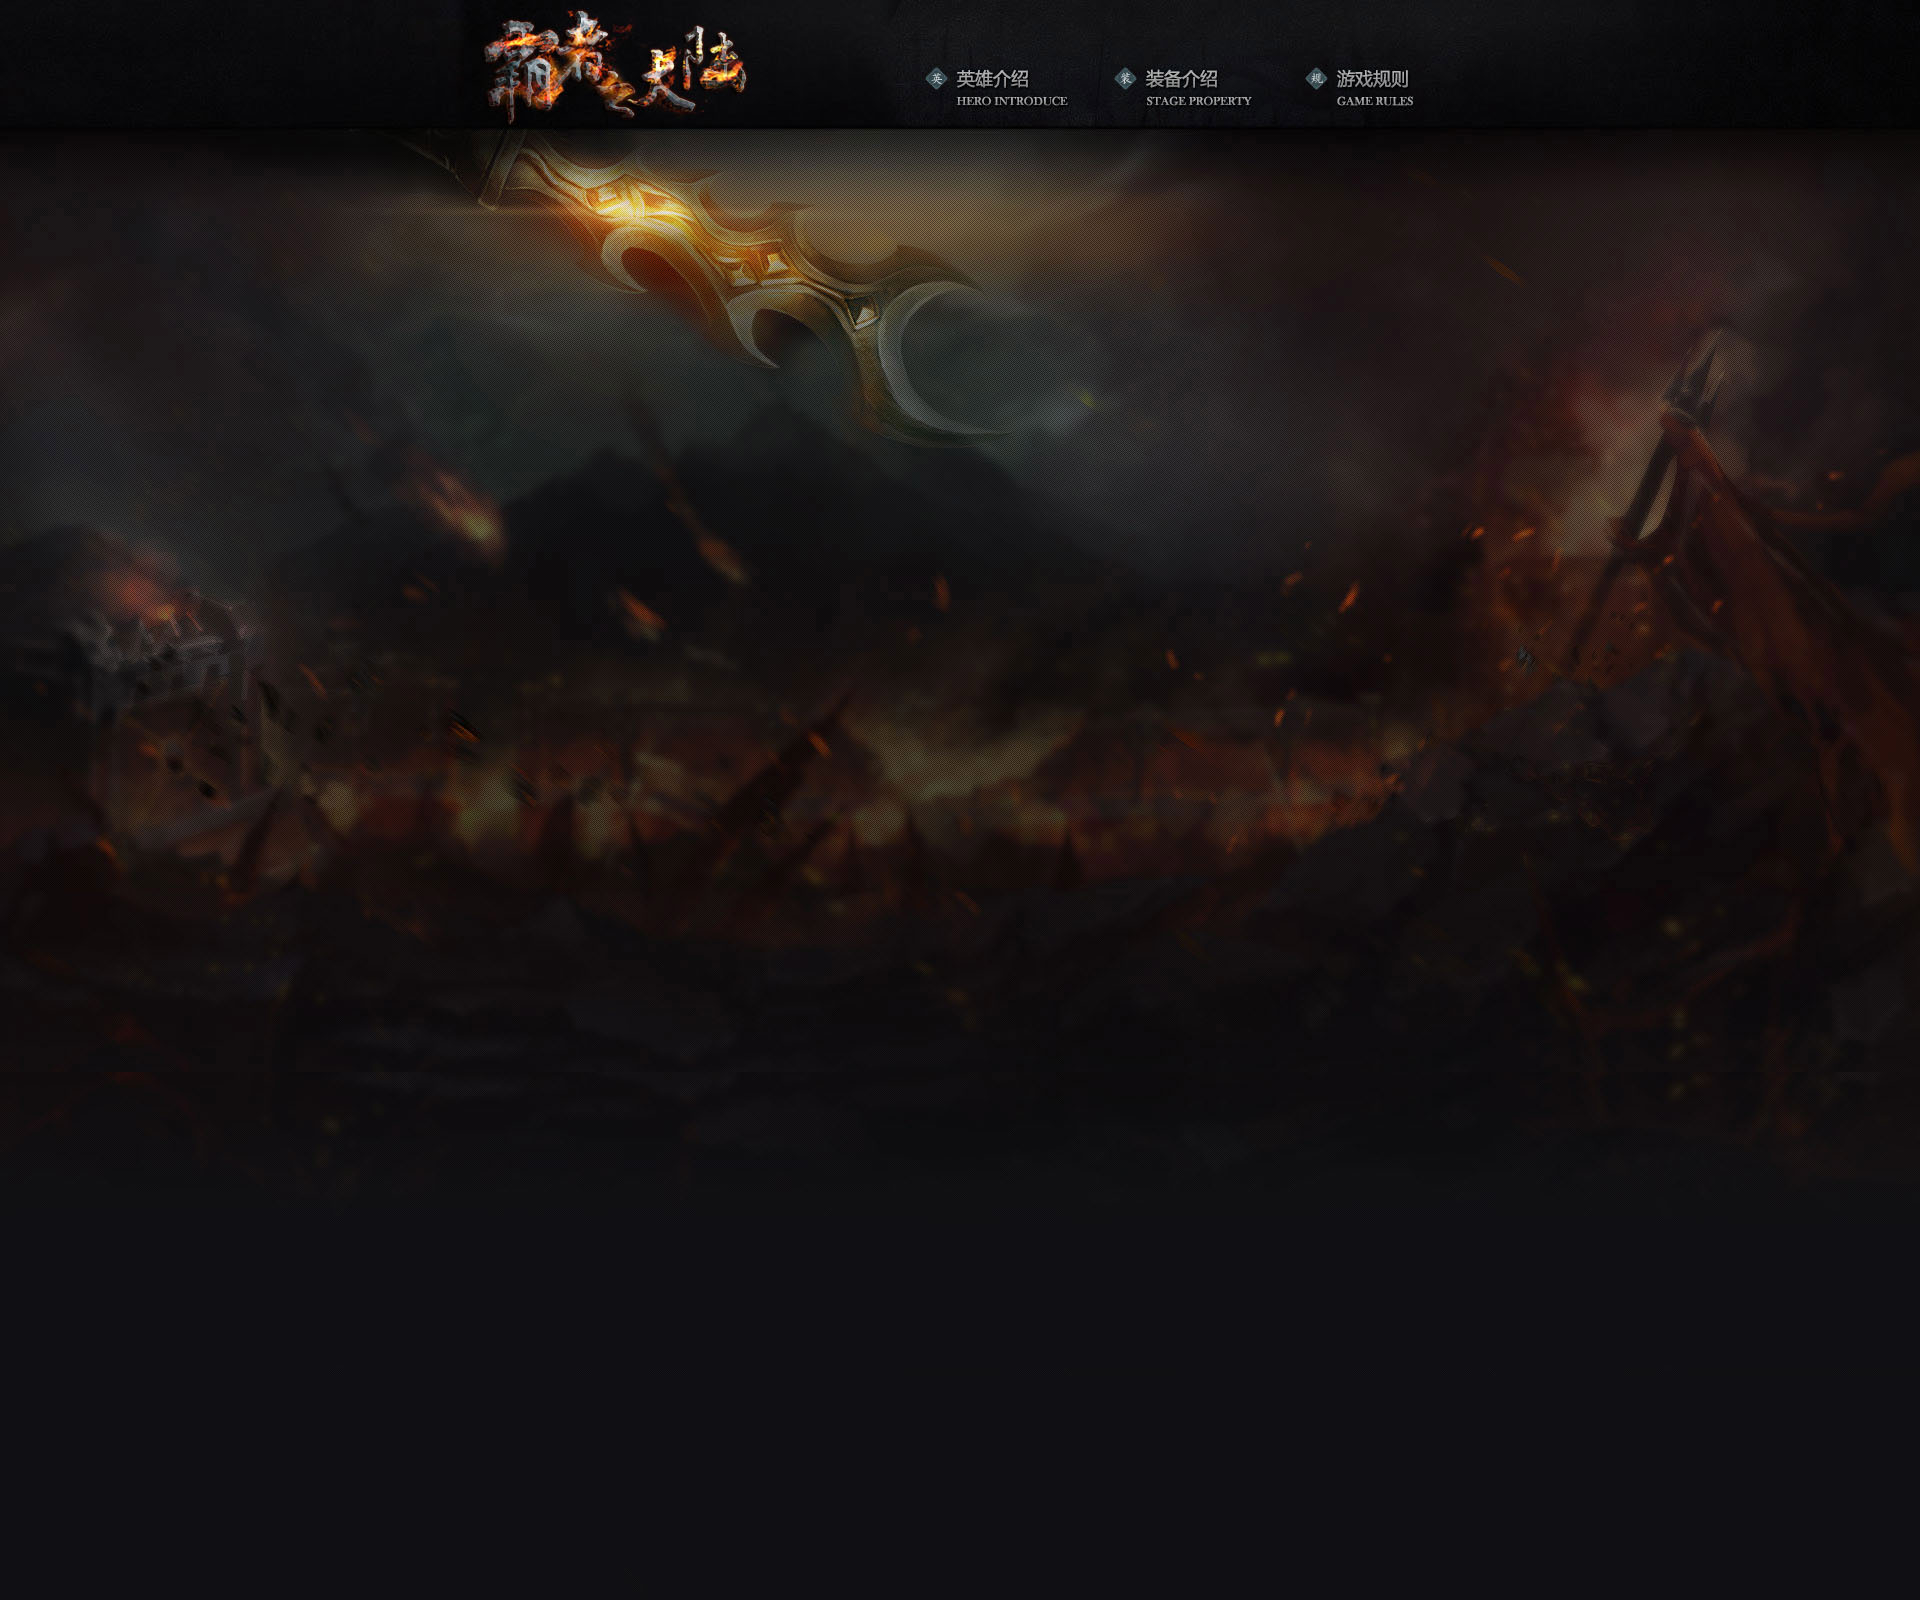
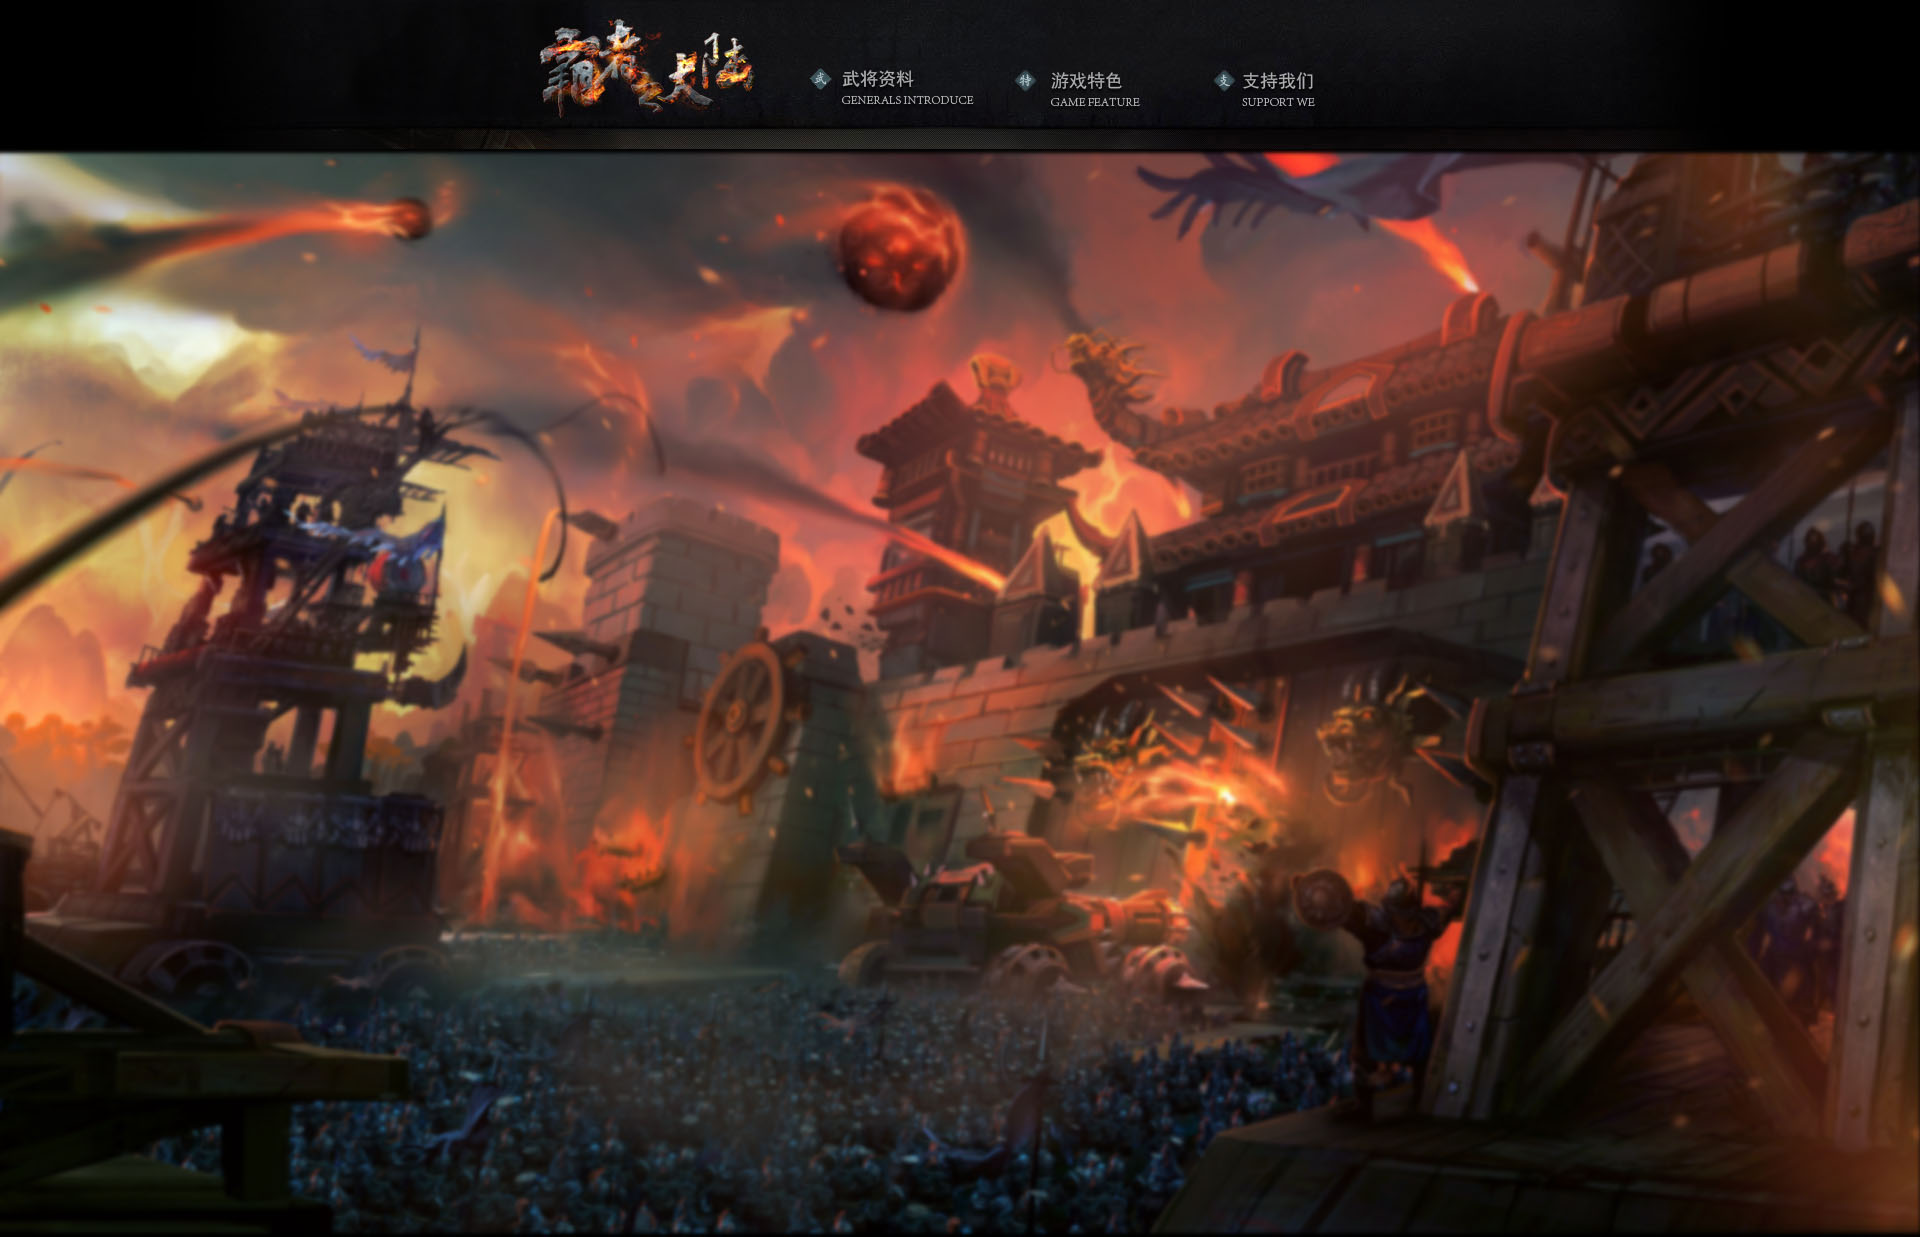
update2015/04/07

diff --git a/stylesheets/stylesheet.css b/stylesheets/stylesheet.css
@@ -2,20 +2,26 @@
 <<<<<<< HEAD
 MeyerWeb Reset
 *******************************************************************************/
+html,
+body {
+	margin:0;
+	padding:0;
+	height:100%;
+}
 
 body {
     background: url("../images/main_bg.jpg") no-repeat scroll center top #111015;
     font-family: 微软雅黑;
     font-size: 14px;
-    height: 600px;
     min-width: 980px;
 }
 
 /* 主页面展示区域 */
 .pagewrap {
     margin: -8px auto;
-    position: relative;
     width: 1024px;
+	min-height:100%;
+	position: relative;
 }
 
 /* 页脚 */
@@ -25,8 +31,7 @@ body {
     font-family: Microsoft Yahei,Arial,Helvetica,sans-serif;
     font-size: 14px;
     height: 90px;
-	position:absolute;
-	bottom:0px;
+	margin-top: -84px;
 	width:100%;
 	left:0;
 }
@@ -61,7 +66,7 @@ a, a:link, a:visited, a:hover, a:active {
     left: 0;
     position: absolute;
     top: 25px;
-    width: 400px;
+    width: 300px;
 }
 .header .logos a {
     display: block;
@@ -72,38 +77,42 @@ a, a:link, a:visited, a:hover, a:active {
     width: 300px;
 }
 .header .main-nav {
-    height: 130px;
-    position: absolute;
-    right: 0;
-    top: 0;
-    width: 562px;
+	height: 128px;
+	position: absolute;
+	right: 106px;
+	top: 2px;
+	width: 544px;
 }
 .header .main-nav a {
-    bottom: 0;
+    bottom: 2;
     display: block;
-    height: 130px;
+    height: 128px;
     position: absolute;
-    width: 200px;
 }
 .header .main-nav a:hover, .header .main-nav a.cur {
     background-image: url("../images/nav_cur.jpg");
 }
 .header .main-nav a.hero {
-    background-position: -3px 0;
-    left: 10px;
+	background-position: 0 0;
+	left: 0px;
+	width: 192px;
 }
-.header .main-nav a.items {
-    background-position: -202px -132px;
-    left: 209px;
+.header .main-nav a.game {
+	background-position: -192px 0;
+	left: 192px;
+	width: 192px;
 }
-.header .main-nav a.rules {
-    background-position: -363px -264px;
-    left: 370px;
+.header .main-nav a.supports {
+    background-position: -384px 0px;
+    left: 384px;
+	width: 192px;
 }
 /* 内容区域 */
 .contenter {
 	margin-top:160px;
+	margin-bottom: 90px;
 	width:980px;  
+	overflow:hidden;
 }
 
 .content-left {
@@ -150,18 +159,23 @@ a, a:link, a:visited, a:hover, a:active {
 .content-right a {
     bottom: 0;
     display: block;
-    height: 90px;
-    width: 220px;
-    left: 10px;
+    height: 100px;
+    width: 240px;
+	margin-bottom: 2px;
+    left: 0;
 }
 .content-right a.heroes:hover {
     background-position: 0 0;
 }
 .content-right a.heroes {
-	text-align: center;
-	margin-top: 5px;
-	background-image: url("../images/heroesBtn.png");
-	background-position: 0px 80px;
-	height: 80px;
-    left: 10px;
+	background-image: url("../images/btn1.jpg");
+	/*background-position: 0px 80px;*/
+}
+.content-right a.game {
+	background-image: url("../images/btn2.jpg");
+	/*background-position: 0px 80px;*/
+}
+.content-right a.supports {
+	background-image: url("../images/btn3.jpg");
+	/*background-position: 0px 80px;*/
 }

diff --git a/index.html b/index.html
@@ -22,9 +22,9 @@
             	<a class="logo" href="index.html"></a>
             </div>
             <div class="main-nav">
-                <a class="hero" href="#"></a>
-                <a class="items" href="#"></a>
-                <a class="rules" href="#"></a>
+                <a class="hero cur" href="#"></a>
+                <a class="game" href="#"></a>
+                <a class="supports" href="#"></a>
             </div>
         </div>
     </div>
@@ -48,8 +48,8 @@
         </div>
         <div class="content-right">
         	<a class="heroes" href="javascript:;"></a>
-            <a class="heroes" href="javascript:;"></a>
-            <a class="heroes" href="javascript:;"></a>
+            <a class="game" href="javascript:;"></a>
+            <a class="supports" href="javascript:;"></a>
         </div>
     </div>
 	
